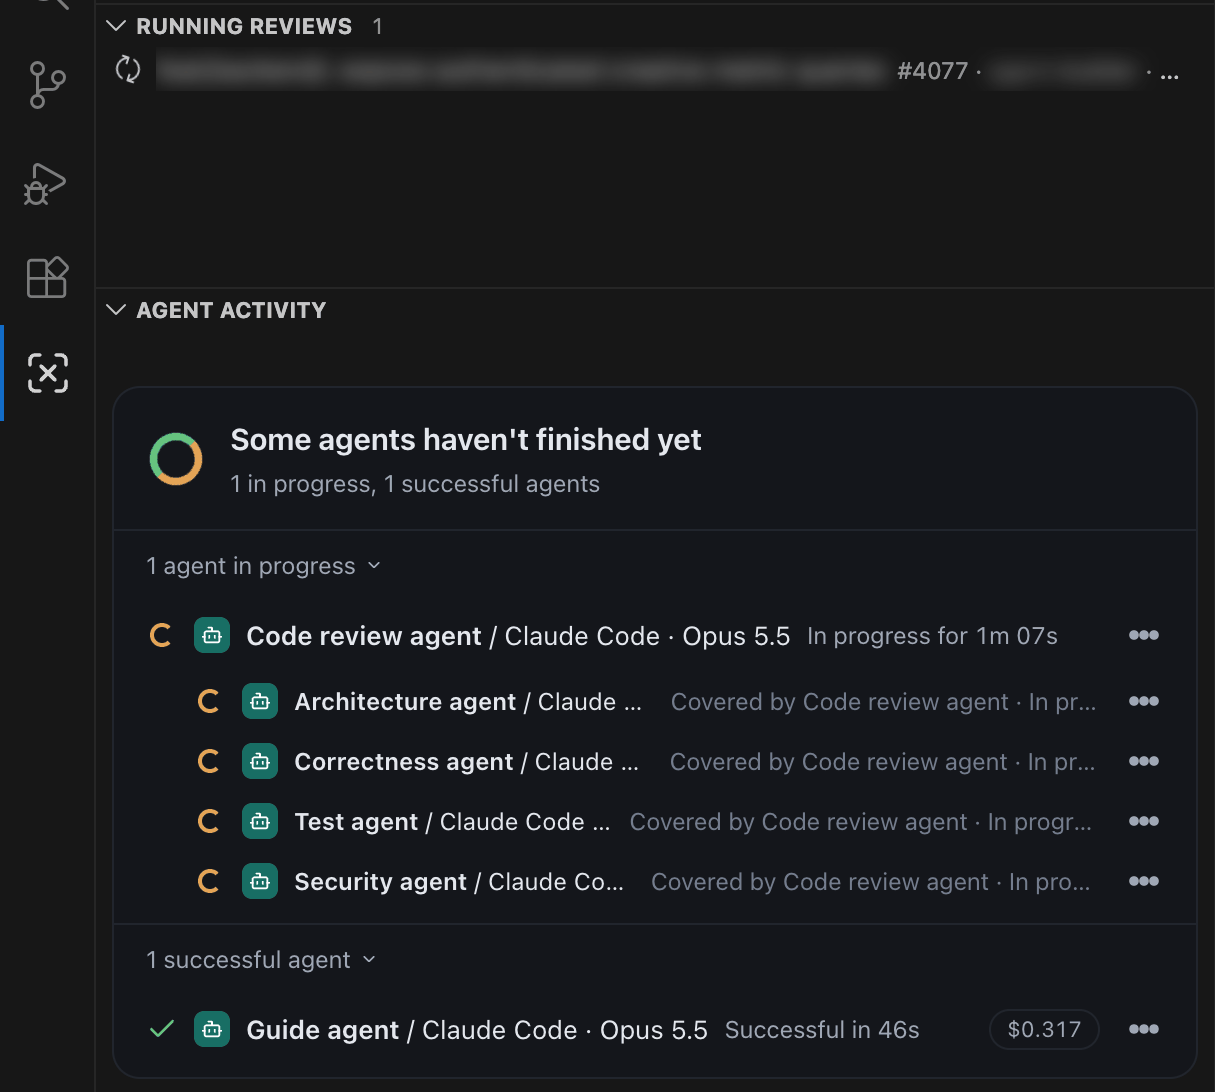
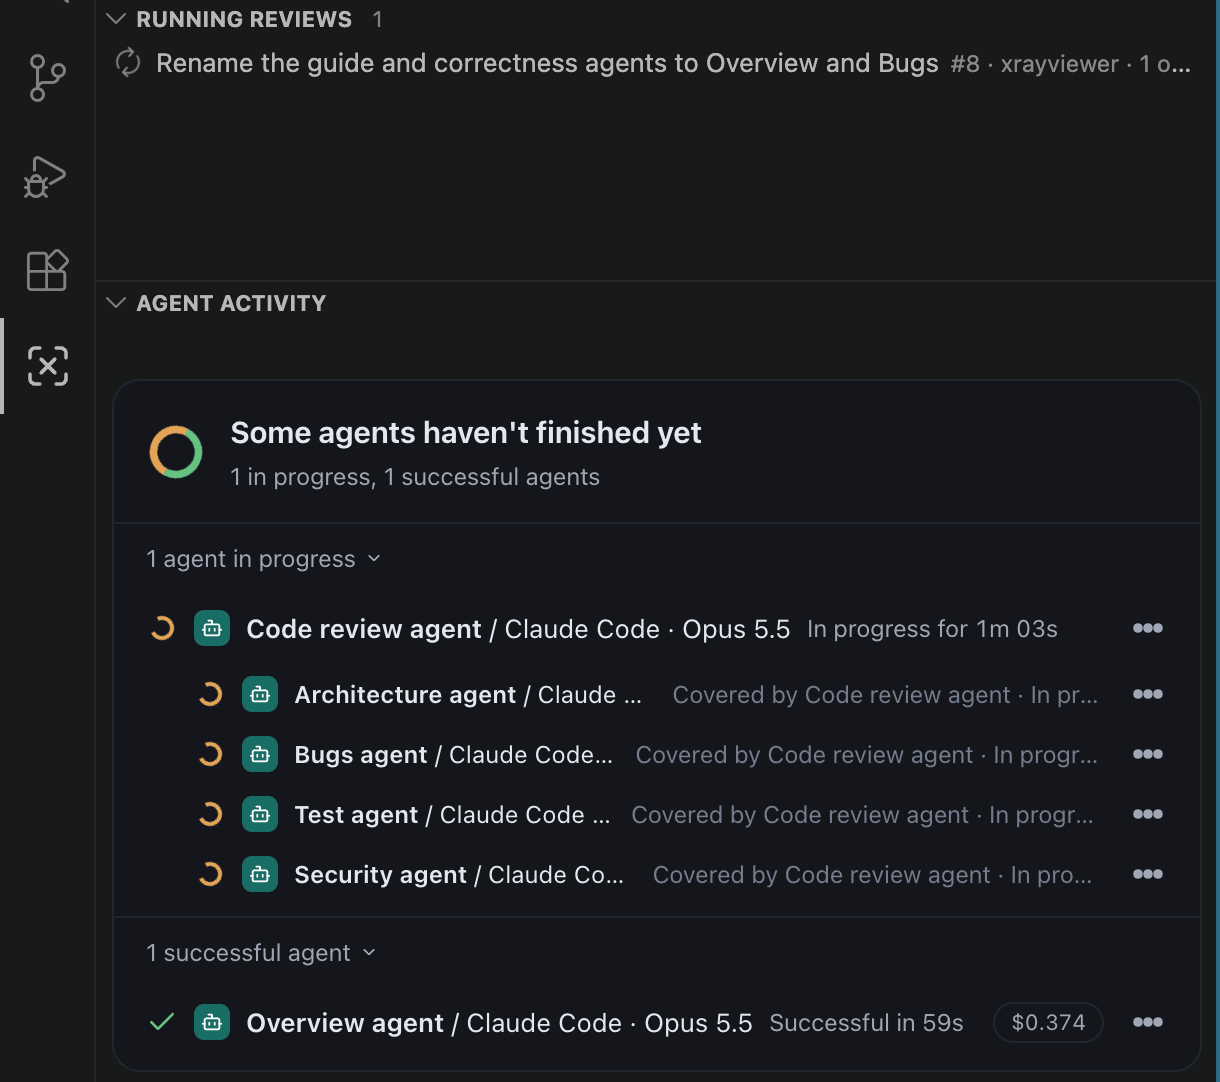
Rename the guide and correctness agents to Overview and Bugs (#8)
The picker, Agent Activity, the review page and the guide call them Overview and Bugs, and the Architecture, Test and Security lines say more plainly what each looks at. The ids stay guide and correctness. An agents.yml from an earlier version is upgraded once: its comments name the overview agent, and a name or line that's still an earlier default gets the new one, while anything someone wrote stays. Rewriting agents.yml keeps its lists unpadded. The diagram, picker and Agent Activity screenshots show the new names.

diff --git a/docs/index.html b/docs/index.html
@@ -38,18 +38,18 @@
 <p>Click a row to open its review page. For a pull request that isn&#39;t listed, run <strong>X-RayViewer: Open a Pull Request…</strong> (<strong>⌥⇧⌘P</strong> on macOS, <strong>Ctrl+Shift+Alt+P</strong> on Windows and Linux) and paste its GitHub link.</p>
 <h3 id="2-run-the-agents">2. Run the agents</h3>
 <p><a class="shot" href="run-agents.png"><img src="run-agents.png" alt="A review page before any agent ran: No agent review yet, with Run agents and the Post all findings when finished checkbox beside it"></a></p>
-<p>Press <strong>Run agents</strong>. Five agents run together: the <strong>guide</strong> checks the description, sets the reading order, and draws the flow, while <strong>architecture</strong>, <strong>correctness</strong>, <strong>tests</strong>, and <strong>security</strong> look for problems. A run takes a few minutes, and you can read the diff meanwhile. The arrow beside <strong>Run agents</strong> picks the program and model (see <strong>Pick the program and model</strong> below).</p>
+<p>Press <strong>Run agents</strong>. Five agents run together: the <strong>overview</strong> agent checks the description, suggests a reading order, and draws the flow, while the <strong>architecture</strong>, <strong>bugs</strong>, <strong>test</strong>, and <strong>security</strong> agents look for problems. A run takes a few minutes, and you can read the diff meanwhile. The arrow beside <strong>Run agents</strong> picks the program and model (see <strong>Pick the program and model</strong> below).</p>
 <p>Leave <strong>Post all findings when finished</strong> unchecked for now. When it&#39;s checked, the run ends by posting every open finding to GitHub as comments, before you&#39;ve read them.</p>
 <h3 id="3-watch-them-work">3. Watch them work</h3>
-<p><a class="shot" href="agent-activity.png"><img src="agent-activity.png" alt="Agent Activity while a review runs: the guide agent finished in 46 seconds for $0.32, the code review agent is in progress, and four agents are covered by it"></a></p>
+<p><a class="shot" href="agent-activity.png"><img src="agent-activity.png" alt="Agent Activity while a review runs: the overview agent finished in 59 seconds for $0.37, the code review agent is in progress, and the architecture, bugs, test, and security agents are covered by it"></a></p>
 <p><strong>Running Reviews</strong> in the sidebar lists every pull request under review, with its progress and how long it has run. <strong>Agent Activity</strong> below it lists the agents the way GitHub lists checks: each one&#39;s status, program, model, time, and cost. Click an agent for its log: what it said, and the commands, reads, and searches it ran.</p>
 <p>On Claude Code, the four agents that look for problems hand over to Claude Code&#39;s own <strong>/code-review</strong>, which runs once. Claude Code then checks the pull request against each agent&#39;s own instructions for anything /code-review missed. That&#39;s why those agents say <strong>Covered by Code review agent</strong>.</p>
 <h3 id="4-read-the-briefing">4. Read the briefing</h3>
 <p><a class="shot" href="findings.png"><img src="findings.png" alt="The briefing after a run: the flow drawn as 8 steps, then 2 medium and 10 low findings, Add all 12 to my review, and 10 things checked and fine"></a></p>
 <p>When the run finishes, the top of the page is the agents&#39; briefing: a summary of the change, how well the description covers what your team asks for, the flow the change touches, and the findings grouped by <strong>High</strong>, <strong>Medium</strong>, and <strong>Low</strong>. Click a finding to jump to its line. <strong>10 things checked and fine</strong> lists what the agents looked at and cleared.</p>
 <h3 id="5-read-the-change-in-order">5. Read the change in order</h3>
-<p><a class="shot" href="map.png"><img src="map.png" alt="The map: the guide agent&#39;s drawing of the flow, each numbered box linked to its lines, and a Start here list of the boxes with findings"></a></p>
-<p>The rail on the left splits the diff into chapters, in the order the guide suggests: code that the rest depends on comes first. <strong>Map</strong> draws the flow the change touches. Each numbered box links to its lines, and <strong>Follow the flow</strong> walks you through them.</p>
+<p><a class="shot" href="map.png"><img src="map.png" alt="The map: the overview agent&#39;s drawing of the flow, each numbered box linked to its lines, and a Start here list of the boxes with findings"></a></p>
+<p>The rail on the left splits the diff into chapters, in the order the overview agent suggests: code that the rest depends on comes first. <strong>Map</strong> draws the flow the change touches. Each numbered box links to its lines, and <strong>Follow the flow</strong> walks you through them.</p>
 <p>Mark each hunk reviewed as you go. The ring at the top counts them, and <strong>Saved locally</strong> in the bar means your marks and drafts are on disk. Press <code>j</code> and <code>k</code> to move between hunks, <code>r</code> to mark one reviewed, and <code>c</code> to comment.</p>
 <h3 id="6-decide-each-finding">6. Decide each finding</h3>
 <p><a class="shot" href="finding-on-line.png"><img src="finding-on-line.png" alt="A finding under the line it&#39;s about: the agent, severity, and confidence, what&#39;s wrong, How the agent got there, a suggested fix, and Add to my review, Add all 12, Copy, and Dismiss"></a></p>
@@ -62,7 +62,7 @@
 <p>Press <strong>Post review</strong> in the bar. The sheet sums up what you reviewed and what will be sent. Pick <strong>Comment</strong>, <strong>Approve</strong>, or <strong>Request changes</strong>, add a summary, and press <strong>Post to GitHub</strong>. It asks once more, <strong>Post as @you to owner/name #12?</strong>, and <strong>Post now</strong> sends it. <strong>Preview what&#39;s sent</strong> shows the exact text first.</p>
 <p>After that the button says <strong>Update review</strong>, the line under the title says what you did, such as &quot;You approved this 2 hours ago&quot;, and the sidebar row says <strong>Reviewed &amp; posted</strong>.</p>
 <h2 id="how-a-review-works">How a review works</h2>
-<p><a class="shot" href="how-it-works.png"><img src="how-it-works.png" alt="How a review works: X-RayViewer reads the pull request from GitHub with gh and git, checks it out locally, runs the guide and four review agents in parallel through your model provider&#39;s CLI, and shows the briefing, chapters, map, and findings on the review page, where you decide what to keep before posting one review back to GitHub"></a></p>
+<p><a class="shot" href="how-it-works.png"><img src="how-it-works.png" alt="How a review works: X-RayViewer reads the pull request from GitHub with gh and git, checks it out locally, runs the overview agent and four review agents in parallel through your model provider&#39;s CLI, and shows the briefing, chapters, map, and findings on the review page, where you decide what to keep before posting one review back to GitHub"></a></p>
 <p>The agents read a local checkout at the pull request&#39;s head commit and change nothing. Each finding comes back with a severity, the exact line, why it matters, and a suggested comment. Your drafts, review marks, and agent results are saved on this computer, so they survive a restart. The only write to GitHub is your review, when you press <strong>Post now</strong>.</p>
 <h2 id="review-several-at-once">Review several at once</h2>
 <p>Check up to five rows in the sidebar, then use the buttons under the list. <strong>Open 2 pull requests</strong> opens each in its own tab. <strong>Review 2 and post</strong> opens them, runs their agents, and posts each one&#39;s open findings as comments when its run finishes, as if <strong>Post all findings when finished</strong> were checked on each.</p>
@@ -85,7 +85,7 @@
 <p>On a review page, the picker is for that pull request only, so two pull requests can run on different models. <strong>Use the default</strong> drops that pull request&#39;s own choice, and <strong>Change the default…</strong> changes it for every other pull request.</p>
 <p>A program that&#39;s missing says <strong>Not installed</strong>, and one with a newer release says <strong>Update available</strong>. The download button beside it installs it. <strong>Change installed version…</strong> picks another installed copy of Claude Code or Codex.</p>
 <h2 id="change-what-the-agents-look-for">Change what the agents look for</h2>
-<p>The first run writes <code>~/.xrayviewer</code> (<code>XRAYVIEWER_HOME</code> moves it): <code>agents.yml</code> lists the agents, and <code>agents/&lt;id&gt;.md</code> holds each agent&#39;s instructions under <strong>Look for</strong> and <strong>Leave alone</strong>. <strong>X-RayViewer: Customize Agents…</strong> opens them, and changes apply on the next run.</p>
+<p>The first run writes <code>~/.xrayviewer</code> (<code>XRAYVIEWER_HOME</code> moves it): <code>agents.yml</code> lists the agents, and <code>agents/&lt;id&gt;.md</code> holds each agent&#39;s instructions under <strong>Look for</strong> and <strong>Leave alone</strong>. <strong>X-RayViewer: Customize Agents…</strong> opens them, and changes apply on the next run. The ids are older than some names: the overview agent is <code>guide</code>, and the bugs agent is <code>correctness</code>.</p>
 <p>To add an agent, run <strong>X-RayViewer: New Agent…</strong>, or add a block to <code>agents.yml</code> and a matching <code>agents/migrations.md</code>:</p>
 <pre><code class="language-yaml">agents:
   migrations:

diff --git a/test/wiring.test.ts b/test/wiring.test.ts
@@ -312,6 +312,69 @@ describe("the patched extension", () => {
     assert.deepEqual(Yt().harnesses.cursor, { id: "cursor", command: state.settings["xrayviewer.cursor.path"], model: "", extraArgs: [] });
   });
 
+  test("a fresh install has the Overview, Architecture, Bugs, Test and Security agents, each with a line on what it looks at", async () => {
+    const { $t } = ext.__xrayviewer;
+    const agents = (await $t()).settings.agents as Record<string, { name: string; focus: string }>;
+    assert.deepEqual(
+      Object.entries(agents).map(([id, agent]) => [id, agent.name, agent.focus]),
+      [
+        ["guide", "Overview agent", "Checks the description, suggests a reading order and draws the flow it touches"],
+        ["architecture", "Architecture agent", "Code in the wrong module, duplicated helpers and code that breaks the patterns around it"],
+        ["correctness", "Bugs agent", "Logic errors, races and edge cases"],
+        ["tests", "Test agent", "Changed behavior that no test covers, and tests that wouldn't catch a bug"],
+        ["security", "Security agent", "Untrusted input, auth, secrets and data leaks"],
+      ],
+    );
+  });
+
+  test("an agents.yml from an earlier version gets the new names, lines and comments once, and keeps the ones someone wrote", async () => {
+    const { ut, $t } = ext.__xrayviewer;
+    const file = path.join(process.env.XRAYVIEWER_HOME!, "agents.yml");
+    const fresh = await readFile(file, "utf8");
+    const swap = (text: string, now: string, was: string) => {
+      assert.ok(text.includes(now), now);
+      return text.replace(now, was);
+    };
+    const earlier = [
+      ["The overview agent (guide) checks the description, suggests a reading order and", "The guide checks the description, sets the reading order and"],
+      ["uses the overview agent's harness.", "uses the guide's harness."],
+      ["# The rules the overview agent checks", "# The rules the guide agent checks"],
+      ['"Overview agent"', '"Guide agent"'],
+      ['"Checks the description, suggests a reading order and draws the flow it touches"', '"Checks the description, sets the reading order and draws the flow the change touches"'],
+      ['"Code in the wrong module, duplicated helpers and code that breaks the patterns around it"', `"Where code lives: boundaries, existing patterns and code that shouldn't exist"`],
+      ['"Bugs agent"', '"Correctness agent"'],
+      [`"Changed behavior that no test covers, and tests that wouldn't catch a bug"`, '"Payments that no test covers"'],
+      ['"Security agent"', '"AppSec agent"'],
+      ['"Untrusted input, auth, secrets and data leaks"', '"Money movement, sign-in and input validation"'],
+    ].reduce((text, [now, was]) => swap(text, now, was), fresh);
+    const named = async () => {
+      const agents = (await $t()).settings.agents as Record<string, { name: string; focus: string }>;
+      return Object.entries(agents).map(([id, agent]) => [id, agent.name, agent.focus]);
+    };
+    try {
+      await writeFile(file, earlier);
+      await ut();
+
+      assert.deepEqual(await named(), [
+        ["guide", "Overview agent", "Checks the description, suggests a reading order and draws the flow it touches"],
+        ["architecture", "Architecture agent", "Code in the wrong module, duplicated helpers and code that breaks the patterns around it"],
+        ["correctness", "Bugs agent", "Logic errors, races and edge cases"],
+        ["tests", "Test agent", "Payments that no test covers"],
+        ["security", "AppSec agent", "Untrusted input, auth, secrets and data leaks"],
+      ]);
+      const upgraded = await readFile(file, "utf8");
+      assert.match(upgraded, /^ {4}name: "Overview agent"$/m, "the file keeps its quotes");
+      assert.match(upgraded, /^ {4}skip: \["\*\*\/\*\.lock", "docs\/\*\*"\]$/m, "the file keeps its list style");
+      assert.doesNotMatch(upgraded, /\bguide's harness|The guide checks|the guide agent checks/, "the comments say overview agent");
+
+      await writeFile(file, swap(upgraded, '"Bugs agent"', '"Correctness agent"'));
+      await ut();
+      assert.equal((await named())[2][1], "Correctness agent", "a name written after the upgrade stays");
+    } finally {
+      await writeFile(file, fresh);
+    }
+  });
+
   test("agents.yml keeps one agent's own level until the agent moves to another harness", async () => {
     const { Eu, xrvSetEffort, $t } = ext.__xrayviewer;
     const [id] = Object.keys((await $t()).settings.agents);
@@ -361,7 +424,7 @@ describe("the patched extension", () => {
     assert.deepEqual(pick.items.filter((item) => item.agent).map((item) => item.agent), ["pick-cursor", "install-codex", "install-claude", ...ids]);
     assert.ok(pick.items.filter((item) => item.agent).every((item) => item.iconPath instanceof ThemeIcon && item.iconPath.id === item.icon), "every row draws its icon");
     const guide = pick.items.find((item) => item.agent === "guide")!;
-    assert.equal(guide.label, "Guide");
+    assert.equal(guide.label, "Overview");
     assert.equal(guide.detail, `${agents.guide.focus}.`);
     assert.equal(guide.iconPath.id, "compass");
     assert.ok(!pick.items.some((item) => item.agent === "run" || item.agent === "default"), "the picker only saves; Run agents runs");
@@ -613,7 +676,7 @@ describe("the patched extension", () => {
 
     assert.deepEqual(result.file.agents.map((a: { id: string; short: string }) => [a.id, a.short]), [
       ["claude-code-review", "Code review"],
-      ["correctness", "Correctness"],
+      ["correctness", "Bugs"],
       ["tests", "Test"],
     ]);
     assert.deepEqual(result.file.findings.map((f: { agent: string; title: string; severity: string }) => [f.agent, f.title, f.severity]), [

diff --git a/test/support/load-extension.ts b/test/support/load-extension.ts
@@ -51,7 +51,7 @@ export function stubModule(name: string, overrides: Record<string, unknown>): ob
 export async function loadExtension(distDir: string, vscode: object) {
   const original = path.join(distDir, "extension.cjs");
   const copy = path.join(distDir, "extension.test.cjs");
-  await writeFile(copy, `${await readFile(original, "utf8")}\n;module.exports.__xrayviewer={Na,Yt,Xt,Nt,ji,zu,Mo,$t,ui,Eu,Cu,xrvSetEffort};\n`);
+  await writeFile(copy, `${await readFile(original, "utf8")}\n;module.exports.__xrayviewer={Na,Yt,Xt,Nt,ji,zu,Mo,$t,ui,Eu,Cu,xrvSetEffort,ut};\n`);
   const loader = Module as unknown as { _load: (request: string, ...rest: unknown[]) => unknown };
   const load = loader._load;
   loader._load = function (this: unknown, request: string, ...rest: unknown[]) {

diff --git a/assets/readme.md b/assets/readme.md
@@ -35,13 +35,13 @@ Click a row to open its review page. For a pull request that isn't listed, run *
 
 ![A review page before any agent ran: No agent review yet, with Run agents and the Post all findings when finished checkbox beside it](docs/run-agents.png)
 
-Press **Run agents**. Five agents run together: the **guide** checks the description, sets the reading order, and draws the flow, while **architecture**, **correctness**, **tests**, and **security** look for problems. A run takes a few minutes, and you can read the diff meanwhile. The arrow beside **Run agents** picks the program and model (see **Pick the program and model** below).
+Press **Run agents**. Five agents run together: the **overview** agent checks the description, suggests a reading order, and draws the flow, while the **architecture**, **bugs**, **test**, and **security** agents look for problems. A run takes a few minutes, and you can read the diff meanwhile. The arrow beside **Run agents** picks the program and model (see **Pick the program and model** below).
 
 Leave **Post all findings when finished** unchecked for now. When it's checked, the run ends by posting every open finding to GitHub as comments, before you've read them.
 
 ### 3. Watch them work
 
-![Agent Activity while a review runs: the guide agent finished in 46 seconds for $0.32, the code review agent is in progress, and four agents are covered by it](docs/agent-activity.png)
+![Agent Activity while a review runs: the overview agent finished in 59 seconds for $0.37, the code review agent is in progress, and the architecture, bugs, test, and security agents are covered by it](docs/agent-activity.png)
 
 **Running Reviews** in the sidebar lists every pull request under review, with its progress and how long it has run. **Agent Activity** below it lists the agents the way GitHub lists checks: each one's status, program, model, time, and cost. Click an agent for its log: what it said, and the commands, reads, and searches it ran.
 
@@ -55,9 +55,9 @@ When the run finishes, the top of the page is the agents' briefing: a summary of
 
 ### 5. Read the change in order
 
-![The map: the guide agent's drawing of the flow, each numbered box linked to its lines, and a Start here list of the boxes with findings](docs/map.png)
+![The map: the overview agent's drawing of the flow, each numbered box linked to its lines, and a Start here list of the boxes with findings](docs/map.png)
 
-The rail on the left splits the diff into chapters, in the order the guide suggests: code that the rest depends on comes first. **Map** draws the flow the change touches. Each numbered box links to its lines, and **Follow the flow** walks you through them.
+The rail on the left splits the diff into chapters, in the order the overview agent suggests: code that the rest depends on comes first. **Map** draws the flow the change touches. Each numbered box links to its lines, and **Follow the flow** walks you through them.
 
 Mark each hunk reviewed as you go. The ring at the top counts them, and **Saved locally** in the bar means your marks and drafts are on disk. Press `j` and `k` to move between hunks, `r` to mark one reviewed, and `c` to comment.
 
@@ -91,7 +91,7 @@ After that the button says **Update review**, the line under the title says what
 
 ## How a review works
 
-![How a review works: X-RayViewer reads the pull request from GitHub with gh and git, checks it out locally, runs the guide and four review agents in parallel through your model provider's CLI, and shows the briefing, chapters, map, and findings on the review page, where you decide what to keep before posting one review back to GitHub](docs/how-it-works.png)
+![How a review works: X-RayViewer reads the pull request from GitHub with gh and git, checks it out locally, runs the overview agent and four review agents in parallel through your model provider's CLI, and shows the briefing, chapters, map, and findings on the review page, where you decide what to keep before posting one review back to GitHub](docs/how-it-works.png)
 
 The agents read a local checkout at the pull request's head commit and change nothing. Each finding comes back with a severity, the exact line, why it matters, and a suggested comment. Your drafts, review marks, and agent results are saved on this computer, so they survive a restart. The only write to GitHub is your review, when you press **Post now**.
 
@@ -146,7 +146,7 @@ A program that's missing says **Not installed**, and one with a newer release sa
 
 ## Change what the agents look for
 
-The first run writes `~/.xrayviewer` (`XRAYVIEWER_HOME` moves it): `agents.yml` lists the agents, and `agents/<id>.md` holds each agent's instructions under **Look for** and **Leave alone**. **X-RayViewer: Customize Agents…** opens them, and changes apply on the next run.
+The first run writes `~/.xrayviewer` (`XRAYVIEWER_HOME` moves it): `agents.yml` lists the agents, and `agents/<id>.md` holds each agent's instructions under **Look for** and **Leave alone**. **X-RayViewer: Customize Agents…** opens them, and changes apply on the next run. The ids are older than some names: the overview agent is `guide`, and the bugs agent is `correctness`.
 
 To add an agent, run **X-RayViewer: New Agent…**, or add a block to `agents.yml` and a matching `agents/migrations.md`:
 

diff --git a/README.md b/README.md
@@ -4,7 +4,7 @@ Review GitHub pull requests in VS Code or Cursor. Agents on your computer read t
 
 ![X-RayViewer in VS Code: your pull requests in the sidebar, and a review page with the agents' briefing, the description check, the flow, and 12 findings grouped by severity](docs/hero.png)
 
-![How a review works: X-RayViewer reads the pull request from GitHub with gh and git, checks it out locally, runs the guide and four review agents in parallel through your model provider's CLI, and shows the briefing, chapters, map, and findings on the review page, where you decide what to keep before posting one review back to GitHub](docs/how-it-works.png)
+![How a review works: X-RayViewer reads the pull request from GitHub with gh and git, checks it out locally, runs the overview agent and four review agents in parallel through your model provider's CLI, and shows the briefing, chapters, map, and findings on the review page, where you decide what to keep before posting one review back to GitHub](docs/how-it-works.png)
 
 The user guide walks through a first review with screenshots, then covers automatic runs, models, custom agents, and every setting: **[xanadupia.github.io/xrayviewer](https://xanadupia.github.io/xrayviewer)**. It's generated from [assets/readme.md](assets/readme.md), which is also the page on the Marketplace and inside the extension.
 
